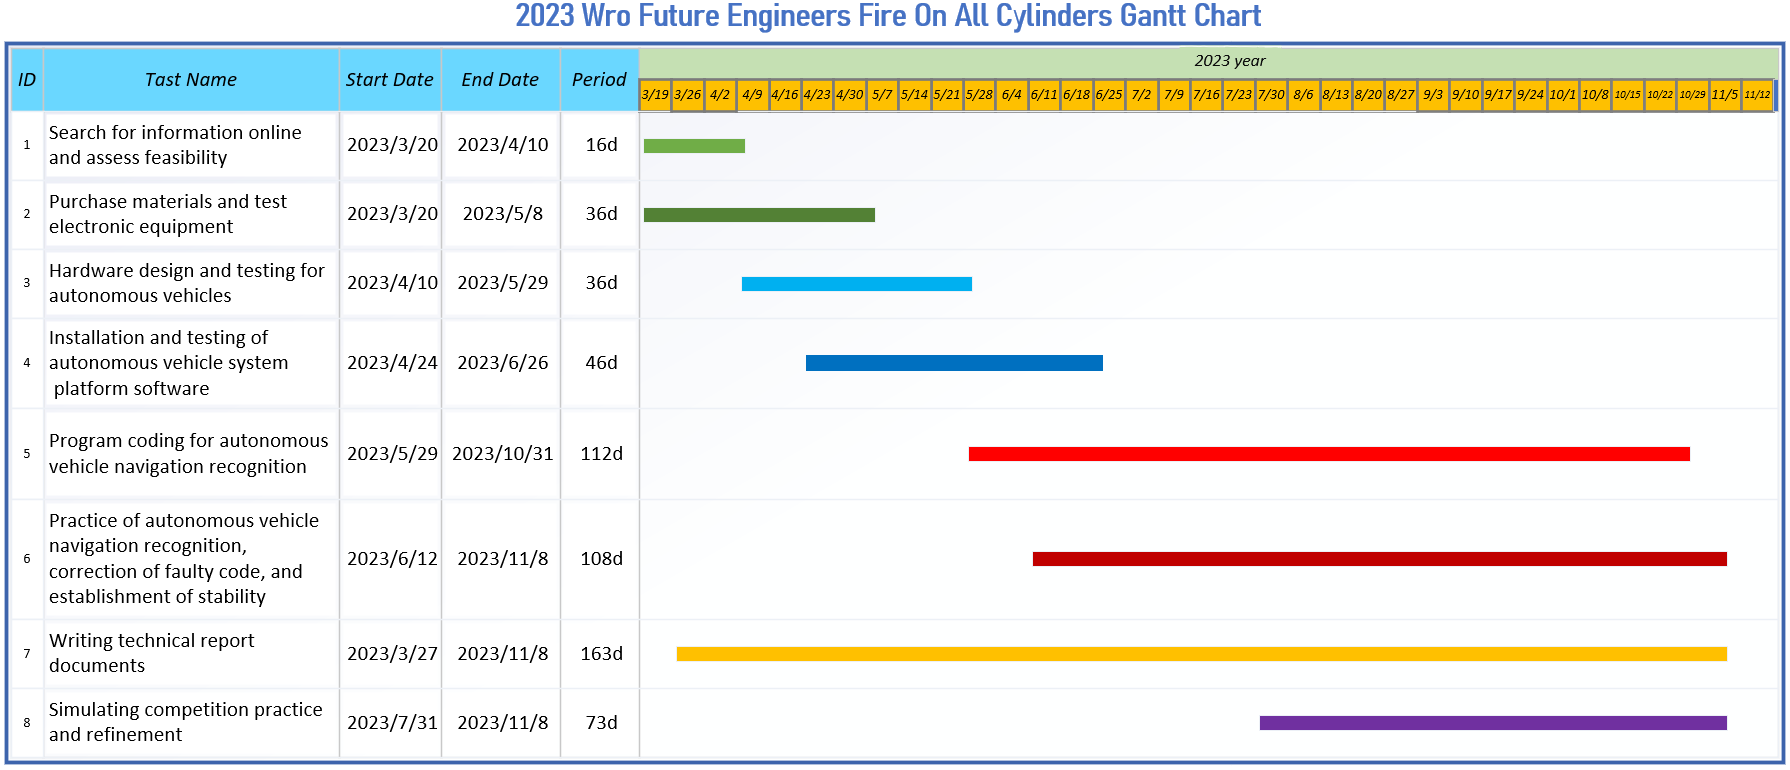
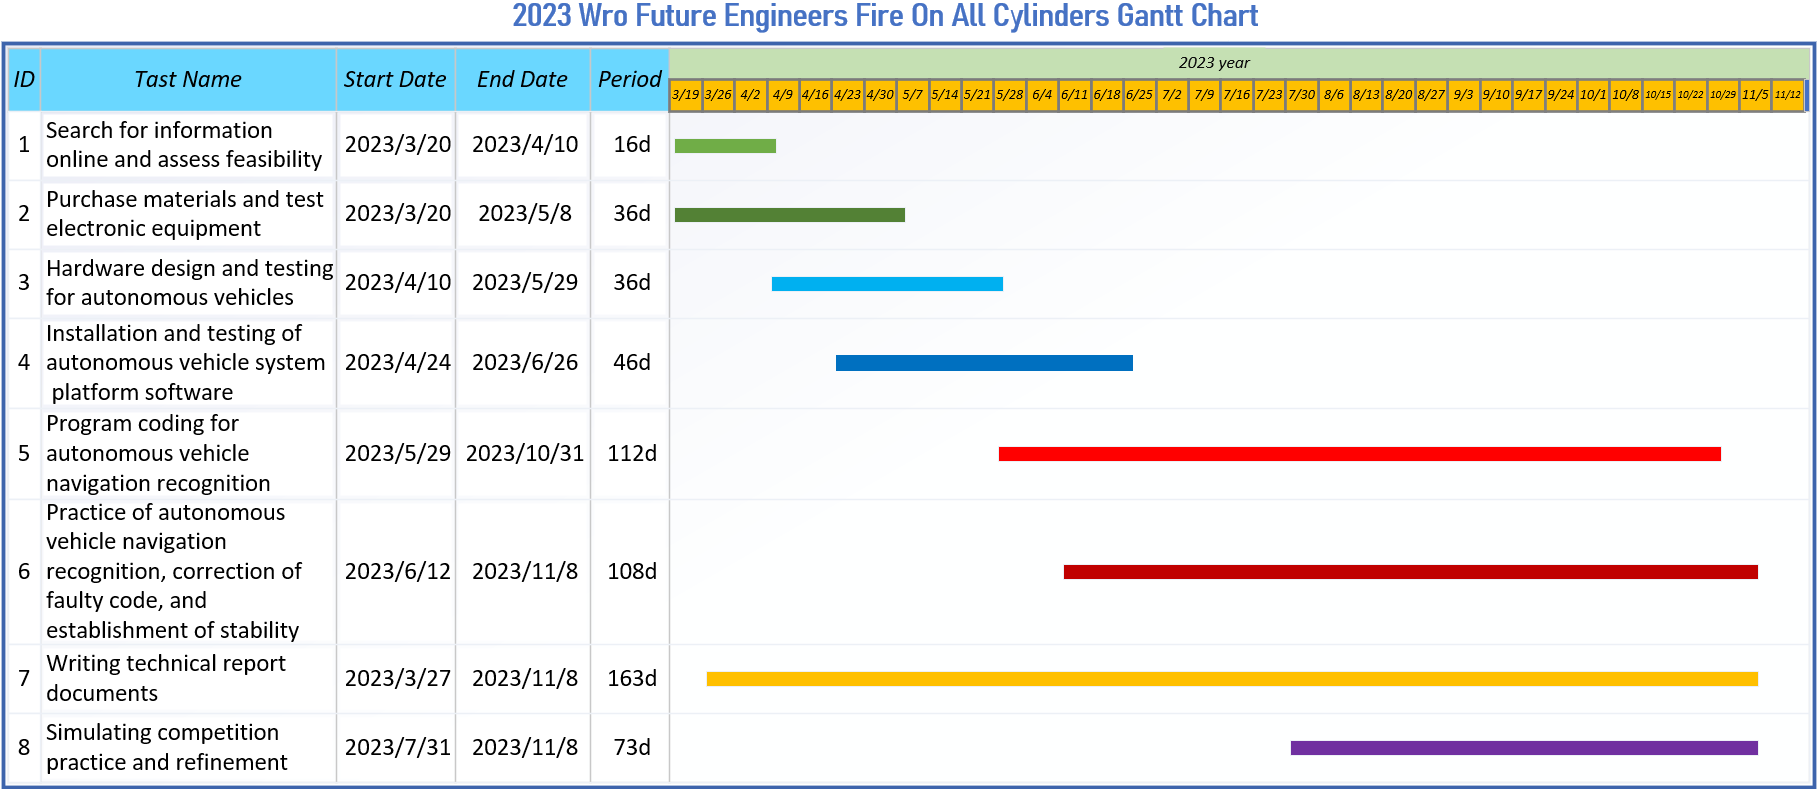
add gantt

diff --git a/README.md b/README.md
@@ -55,5 +55,5 @@
   #### 7. Engineering Factor  
     - [Work Diary](https://github.com/kirkhu/WRO2023_FE-Shinan-Fire-On-All-Cylinders/blob/main/other/work_diary/README.md)
 - ### ${{\color{red} CompetitionSchedule}} $  
-# <div align="center">![Competition Schedule Gantt](./Competition_Schedule_Gantt.jpg)</div> 
+# <div align="center">![Competition Schedule Gantt](./other/img/gantt.png)</div> 
 
